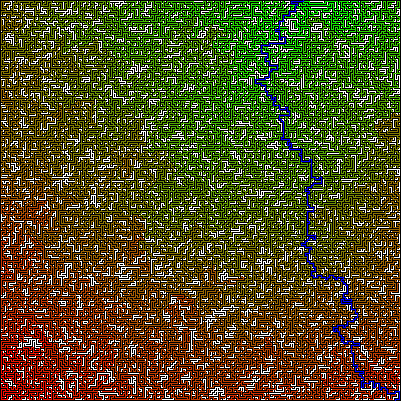
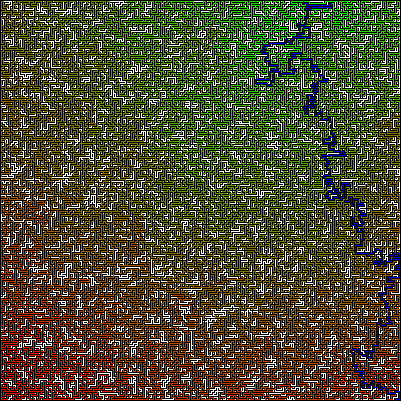
Added astar, DFS and refactored

diff --git a/solution_image_generator.py b/solution_image_generator.py
@@ -1,16 +1,10 @@
 class Solution_image:
-    def __init__(self, im, sol, filename, draw_depth=False):
+    def __init__(self, im):
         # Output a solved image
-        im = im.convert("RGB")
-        pixels = im.load()
+        self.im = im.convert("RGB")
+        self.pixels = self.im.load()
 
-        if draw_depth:
-            self.__draw_depth(sol, pixels)
-
-        self.__draw_sol(sol, pixels)
-        im.save("maze_solutions/" + filename)
-
-    def __draw_depth(self, sol, pixels):
+    def draw_depth(self, dead_ends, shortest_path_dist, longest_path_dist):
         # Color all dead end routes
         def color(progress, path_dist): 
             r = int(255*(progress/path_dist))
@@ -18,36 +12,39 @@ class Solution_image:
             b = 0
             return (r, g, b)
 
-        for path in sol.dead_ends.values():
+        for path in dead_ends.values():
             progress = 0
             for i in range(len(path) - 1):
                 this_node = path[i]
                 next_node = path[i + 1]
 
                 for x in range(this_node.x, next_node.x, -1 if this_node.x > next_node.x else 1):
-                    pixels[x, this_node.y] = color(progress, sol.longest_path_dist)
+                    self.pixels[x, this_node.y] = color(progress, longest_path_dist)
                     progress += 1
 
                 for y in range(this_node.y, next_node.y, -1 if this_node.y > next_node.y else 1):
-                    pixels[this_node.x, y] = color(progress, sol.longest_path_dist)
+                    self.pixels[this_node.x, y] = color(progress, longest_path_dist)
                     progress += 1
 
-        pixels[path[-1].x, path[-1].y] = color(progress, sol.shortest_path_dist)
+        self.pixels[path[-1].x, path[-1].y] = color(progress, shortest_path_dist)
 
-    def __draw_sol(self, sol, pixels):
+    def draw_sol(self, path, color=(0, 0, 255)):
         # Paints shortest path solution
         progress = 0
-        color = (0, 0, 255)
-        for i in range(len(sol.shortest_path) - 1):
-            this_node = sol.shortest_path[i]
-            next_node = sol.shortest_path[i + 1]
+        for i in range(len(path) - 1):
+            this_node = path[i]
+            next_node = path[i + 1]
 
             for x in range(this_node.x, next_node.x, -1 if this_node.x > next_node.x else 1):
-                pixels[x, this_node.y] = color
+                self.pixels[x, this_node.y] = color
                 progress += 1
 
             for y in range(this_node.y, next_node.y, -1 if this_node.y > next_node.y else 1):
-                pixels[this_node.x, y] = color
+                self.pixels[this_node.x, y] = color
                 progress += 1
 
-        pixels[sol.shortest_path[-1].x, sol.shortest_path[-1].y] = color
+        self.pixels[path[-1].x, path[-1].y] = color
+    
+    def save(self, filename):
+        self.im.save("maze_solutions/" + filename)
+        print("Image saved as maze_solutions/" + filename + "\n")

diff --git a/maze_solvers.py b/maze_solvers.py
@@ -1,6 +1,9 @@
-from collections import defaultdict
+from collections import defaultdict, deque
 from math import inf
+from sys import setrecursionlimit
+from random import choice
 import heapq
+
 
 
 class Dijkstra:
@@ -45,8 +48,9 @@ class Dijkstra:
             self.longest_path_dist = dist # Last popped item will be deepest dead-end node
             explored.add(tail)
 
-            # Check if dead-end
-            if all(node in explored for node in tail.neighbors):
+            # Check if dead-end. Only useful if not exiting early. 
+            # Dead ends useful for drawing maze depth
+            if all(node in explored for node in tail.neighbors) and not early_exit:
                 self.dead_ends[tail] = self.shortest_paths[tail]
             
             # Push neighboring nodes into heap
@@ -62,3 +66,45 @@ class Dijkstra:
 
         self.shortest_path = self.shortest_paths[end_node]
         self.shortest_path_dist = self.shortest_paths_dist[end_node]
+
+
+class Depth_first_search:
+    def __init__(self, source_node, end_node, heuristic="greedy"):
+        
+        def choose_node(available_neighbors, heuristic="greedy"):
+            # Greedy (default): add neighbor closest to end_node
+            if heuristic == "greedy":
+                min_dist, min_neighbor = inf, None
+                for neighbor in available_neighbors:
+                    dist = neighbor.distance(end_node)
+                    if dist < min_dist:
+                        min_dist, min_neighbor = dist, neighbor
+                return min_neighbor
+
+            # Random: add a random neighbor
+            elif heuristic == "random":
+                if available_neighbors:
+                    return choice(available_neighbors)
+
+            # Naive: choose first non-visited neighbor in list
+            elif heuristic == "naive":
+                return available_neighbors[0]
+                
+        visited = set([source_node])
+        stack = deque([source_node])
+        
+        while stack:
+            node = stack.pop()
+            available_neighbors = [neighbor for neighbor in node.neighbors if neighbor not in visited]
+            if available_neighbors:
+                stack.append(node)
+                new_node = choose_node(available_neighbors)
+                stack.append(new_node)
+                visited.add(new_node)
+
+                if new_node is end_node:
+                    self.path = list(stack)
+                    break
+
+
+        

diff --git a/solve.py b/solve.py
@@ -1,14 +1,16 @@
 from PIL import Image
 from maze import Maze
 import maze_solvers
-import solution_image_generator
+from solution_image_generator import *
 import time
 
 
-def solve(filename, heuristic=None, draw_depth=True):
+def solve(filename, draw_depth=True, solution_algorithm="depth_first_search"):
     im = Image.open("maze_images/" + filename)
-
+    sol_image = Solution_image(im)
+    
     t_total0 = time.time()
+
     # Generate Maze
     print("Generating maze...")
     t0 = time.time()
@@ -16,22 +18,36 @@ def solve(filename, heuristic=None, draw_depth=True):
     t1 = time.time()
     print("Done. Time elapsed:", t1 - t0, "\n")
 
-    # Solve maze
-    print("Solving maze...")
-    t0 = time.time()
-    sol = maze_solvers.Dijkstra(maze.start_node, maze.end_node, early_exit=draw_depth, heuristic=heuristic)
-    t1 = time.time()
-    print("Done. Time elapsed:", t1 - t0, "\n")
+    if draw_depth:
+        t0 = time.time()
+        print("Calculating maze Depth (Dijkstra)...")
+        sol_dij = maze_solvers.Dijkstra(maze.start_node, maze.end_node, early_exit=False, heuristic="astar")
+        sol_image.draw_depth(sol_dij.dead_ends, sol_dij.shortest_path_dist, sol_dij.longest_path_dist)
+        t1 = time.time()
+        if solution_algorithm != "dijkstra":
+            del sol_dij
+        t1 = time.time()
+        print("Done. Time elapsed:", t1 - t0, "\n")
 
-    # Generate solution image
-    print("Generating image...")
+    
     t0 = time.time()
-    solution_image_generator.Solution_image(im, sol, filename, draw_depth=draw_depth)
+    if solution_algorithm == "depth_first_search":
+        print("Solving maze (DFS)...")
+        sol_dfs = maze_solvers.Depth_first_search(maze.start_node, maze.end_node, heuristic="greedy")
+        sol_image.draw_sol(sol_dfs.path)
+
+    elif solution_algorithm == "dijkstra":
+        print("Solving maze (Dijkstra)...")
+        sol_image.draw_sol(sol_dij.path)
+
     t1 = time.time()
     print("Done. Time elapsed:", t1 - t0, "\n")
+    
+    sol_image.save(filename)
 
     t_total1 = time.time()
     print("Total time:", t_total1 - t_total0)
 
 if __name__ == "__main__":
-    solve("perfect2k.png", heuristic="astar", draw_depth=False)
+    solve("braid200.png", draw_depth=True, solution_algorithm="depth_first_search")
+    # Careful with drawing depth on larger images. You could very quickly run out of RAM.

diff --git a/README.md b/README.md
@@ -1,0 +1,8 @@
+# Solving mazes
+After having finished Stanfoord's "Algorithms" MOOC on Coursera, I was surfing the web and found Mike Pound's [video](https://www.youtube.com/watch?v=rop0W4QDOUI) on maze solving on Computerphile's Youtube channel. It seemed like a fun project to practice what I had just learned so I ended up writing up my own code for it.
+
+I took all of the images from Mike's repository but I've rewritten all the path finding algorithms and drawing scripts from scratch, using my own code I wrote for my algorithms course. I also added a few heuristics to the Depth First Search algorithm, and a nice feature to visualize maze depth using Dijkstra, it givess you a rough idea about how deep dead-ends go in a maze. Here's an example:
+
+![maze image](maze_solutions/logo.png)
+
+I ran out of RAM (I only have 8GB) for the larger images and was stuck with just drawing the solution using depth first search, because it's the most light weight.

diff --git a/maze_images/README.md b/maze_images/README.md
@@ -1,4 +1,5 @@
 # examples
+
 A few example mazes compatible with this solver. A brief desciption:
 
 - tiny: Very small!
